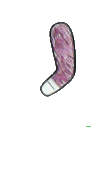
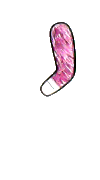
牛タン屋の前でウシをわっしょいを追加

Changed region(s): [[0.39, 0.1111, 0.78, 0.5278], [0.87, 0.6944, 0.9, 0.7222]]

diff --git a/js/TitleScene.js b/js/TitleScene.js
@@ -20,10 +20,12 @@ var createTitleScene = function() {
     scene.addEventListener('enterframe', function(e){
         scene.frame++;
 
-        if (scene.frame >= game.fps * 12) {
+        if (scene.frame >= game.fps * 15) {
             bg.frame = 0;
             scene.frame = 0;
             game.pushScene(createDemoScene());
+        } else if (scene.frame >= game.fps * 12) {
+            bg.frame = 4;
         } else if (scene.frame >= game.fps * 9) {
             bg.frame = 3;
         } else if (scene.frame >= game.fps * 6) {

diff --git a/js/preload.js b/js/preload.js
@@ -24,7 +24,7 @@ var coresizey = 960;
 
 
 //タイトル画面画像
-var IMG_TITLE = "./img/title-4.png";
+var IMG_TITLE = "./img/title-5.png";
 
 //デモ画面画像
 var IMG_DEMO = "./img/demo.png";
